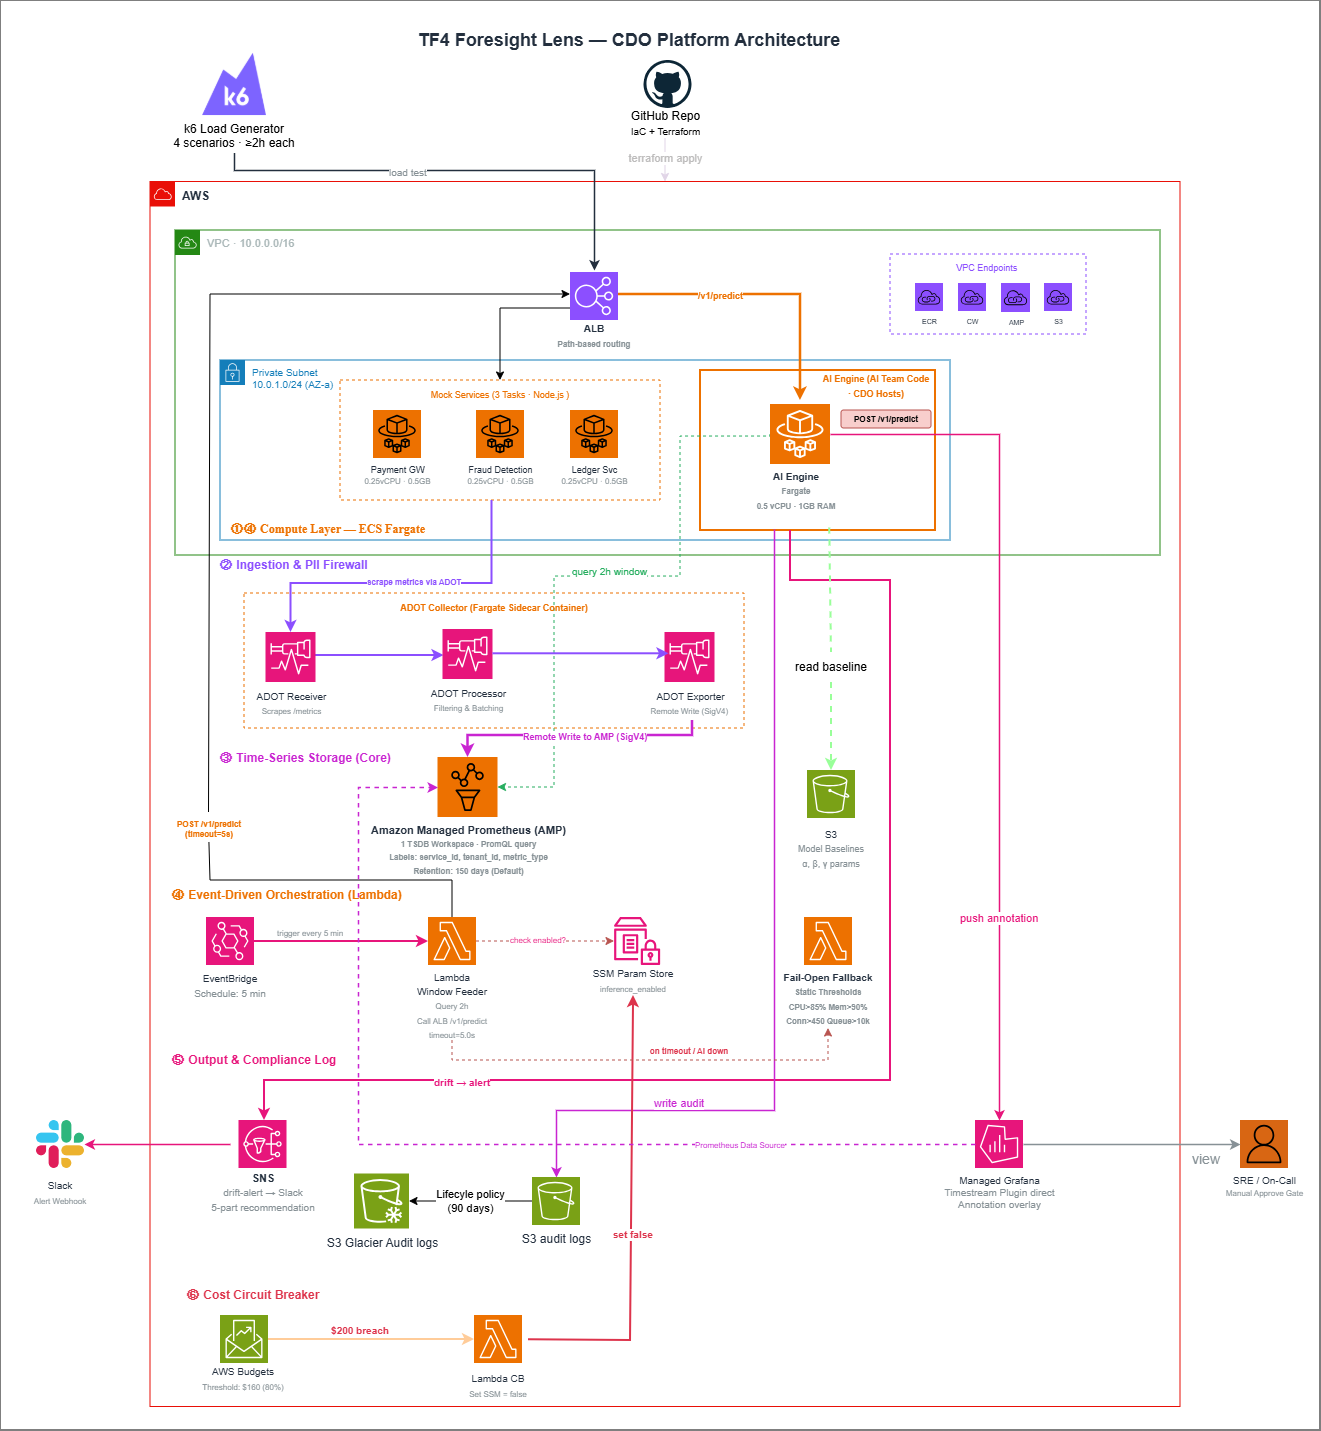
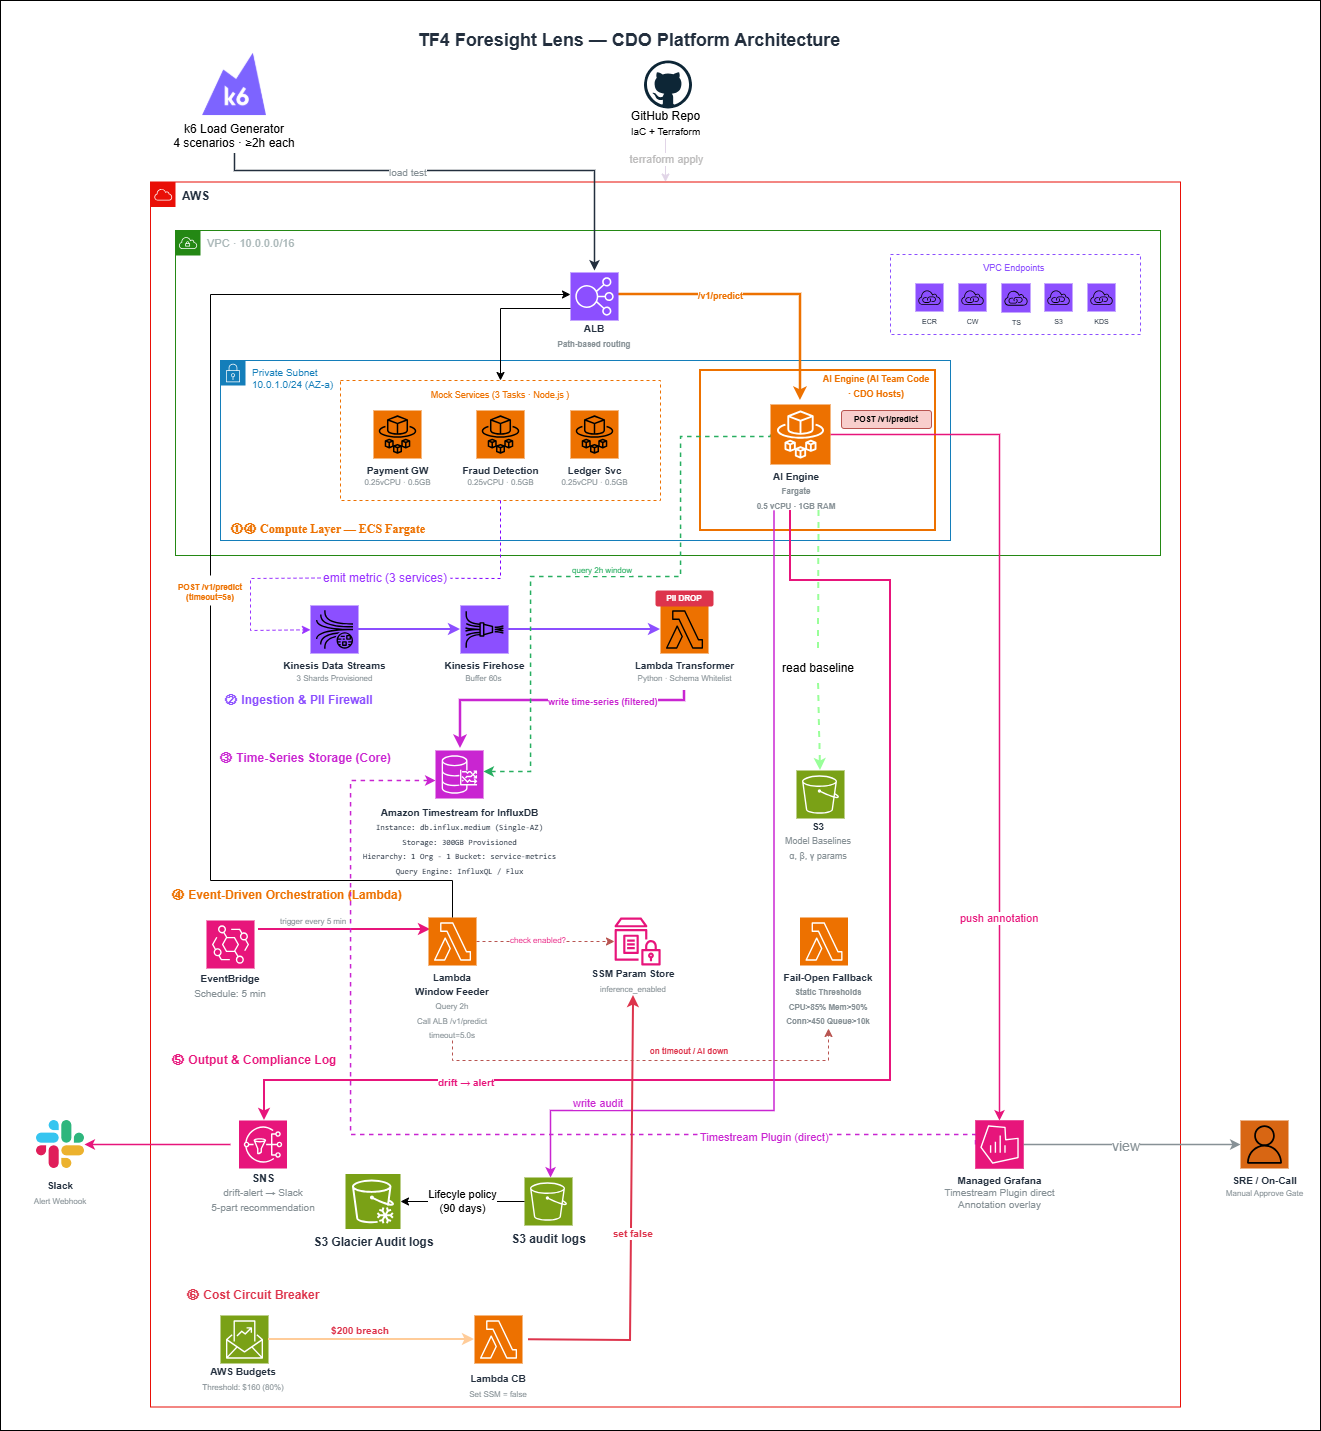
Update infrastructure design: Kinesis + Timestream for InfluxDB architecture with accurate cost estimates
- Updated 02_infra_design.md with Timestream for InfluxDB (.91/month)
- Fixed component table with accurate AWS pricing
- Updated architecture description and cost breakdown
- Aligned alternatives section with TF4 requirements
- Updated diagram to reflect Kinesis + InfluxDB pipeline
- Removed outdated w11-final.jpg image

diff --git a/xbrain-learners/capstone/tf-4/cdo-07/docs/02_infra_design.md b/xbrain-learners/capstone/tf-4/cdo-07/docs/02_infra_design.md
@@ -1,60 +1,54 @@
 # Infrastructure Design - Task Force 4 · CDO-07
 
-<!-- Doc owner: Nhóm CDO7
-     Status: Draft (W11 T3-T4) → Final (W11 T6 Pack #1) → Updated (W12 T4 Pack #2)
-     Word target: 1500-2500 từ -->
-
 ## 1. Architecture diagram
 
 ![CDO7 Architecture](images/CDO7.drawio.png)
 
-*Caption: Hệ thống TF4 Foresight Lens - CDO Platform Architecture với k6 Load Generator, mock services trên ECS Fargate, AI Engine với ML models, Amazon Managed Prometheus cho time-series storage, EventBridge scheduling, SNS notifications, và Grafana dashboard. Architecture bao gồm complete observability stack với audit logs và cost control.*
+*Caption: Hệ thống Foresight Lens predictive monitoring với telemetry pipeline từ mock services qua Kinesis Data Streams đến Timestream for InfluxDB, AI inference engine chạy trên ECS Fargate, và dashboard tích hợp Grafana annotations. Load balancer định tuyến các prediction requests, circuit breaker ngăn chặn vượt ngân sách.*
 
 ## 2. Component table
 
 | Component | AWS Service | Reason | Cost note |
 |---|---|---|---|
 | **Compute** | ECS Fargate | AI inference engine + 3 mock services, 900 vCPU-hour + 1,800 GB-hour | $44.43 |
-| **ADOT Sidecar Overhead** | ECS Fargate (additional) | ADOT collectors per task, 0.25 vCPU/0.5GB × 4 tasks × 720h | $35.56 |
 | **API entry** | Application Load Balancer | Định tuyến requests, health checks, 1 ALB + 1 LCU average | $21.96 |
-| **Database** | Amazon Managed Prometheus (AMP) | Time-series storage, 10M samples ingested + queried, PromQL queries | $0.93 |
-| **Storage** | S3 Standard + Glacier | ML baselines, audit logs, lifecycle policies, 10GB + 5GB archive | $0.79 |
-| **Event Orchestration** | EventBridge + Lambda | Scheduling every 5min, window feeder functions, circuit breaker | $0.03 |
+| **Database** | Amazon Timestream for InfluxDB | db.influx.medium Single-AZ, 300GB provisioned storage, time-series optimized | $116.40 |
+| **Storage** | S3 Standard + Glacier | ML baselines, audit logs, 10GB Standard + 5GB Glacier archive | $0.79 |
+| **Event Streaming** | Kinesis Data Streams (Provisioned) | Stream processing, 3 Shards đảm bảo throughput, multi-tenant partitioning | $59.90 |
+| **Stream Delivery** | Kinesis Data Firehose | Delivery pipeline to InfluxDB, 259.2GB data ingestion | $7.52 |
 | **Observability** | Amazon Managed Grafana | Dashboard visualization, 1 active editor/admin user | $9.00 |
-| **Data Collection** | ADOT (AWS Distro for OpenTelemetry) | Sidecar collectors, metrics ingestion pipeline | Included above |
+| **Functions** | Lambda + EventBridge | Window feeder (5min schedule), transformer (1M invocations), circuit breaker | $4.50 |
 | **Container Registry** | Amazon ECR | Container image storage cho ECS services, 5GB storage | $0.50 |
-| **Audit & Compliance** | S3 + CloudWatch Logs | Prediction audit logs, centralized logging, 5GB logs | $3.15 |
-| **Functions** | Lambda + SNS | Cost circuit breaker, alert notifications, Slack integration | $0.02 |
-| **Networking** | VPC Endpoints (4 endpoints) | ECR, CloudWatch, AMP, private service access, 720h × 4 | $28.80 |
+| **Audit & Compliance** | CloudWatch Logs | Centralized logging, 10GB ingestion + storage, 8 alarms | $6.10 |
+| **Networking** | VPC Endpoints (4 endpoints) | ECR, CloudWatch, Timestream, Kinesis private access, 720h × 4 | $28.80 |
+| **Notifications** | SNS | Alert notifications, drift warnings to Slack integration | $0.01 |
 | **Cost Control** | AWS Budgets + Parameter Store | Budget thresholds, inference control flags | $0.00 |
-| **Total** | | | **$145.15** |
+| **Total (Run-rate 1 tháng)** | | | **$299.91** |
 
 ## 3. Differentiation angle deep-dive
 
-### 3.1 Why this angle?
+### 3.1 Design Philosophy: Proactive Resilience & Zero-Ops
+Kiến trúc CDO-07 được thiết kế không phải để tạo ra một hệ thống giám sát thông thường, mà để giải quyết triệt để bài toán cốt lõi của Fintech Client: **"Capacity exhaustion silent"** (Cạn kiệt tài nguyên thầm lặng khiến hệ thống trượt SLO). Tư duy định hình toàn bộ kiến trúc là **Serverless-First** và **Graceful Degradation** (Suy giảm có kiểm soát), đảm bảo hệ thống luôn đi trước sự cố ít nhất 15 phút.
 
-**Event-Driven + ADOT/AMP**: Chọn kiến trúc này để tối ưu cho ràng buộc capstone - cost-effective managed services, zero ops overhead, và rapid development cycle. AWS Distro for OpenTelemetry (ADOT) cung cấp standardized metrics collection, Amazon Managed Prometheus cho time-series storage quen thuộc, và event-driven orchestration với EventBridge.
+Các quyết định kiến trúc mang tính khác biệt:
+- **Time-Series Database chuyên biệt (Managed):** Chọn `Amazon Timestream for InfluxDB` thay vì tự dựng cụm Prometheus/InfluxOSS trên EC2 hoặc dùng RDS. Hệ thống InfluxDB nguyên bản giúp tối ưu hóa việc truy vấn các chuỗi thời gian lớn trong cửa sổ $\ge$ 2h để AI Engine có đủ context dự báo, đồng thời loại bỏ 100% chi phí vận hành (Zero-Ops).
+- **Decoupled Ingestion với Kinesis:** Hàng ngàn microservices của Fintech phát sinh lượng telemetry khổng lồ. Kinesis đóng vai trò là "bộ đệm chống sốc", đảm bảo dữ liệu không bị rớt (Zero Data Loss) ngay cả khi có các đợt traffic spike đột ngột (như Black Friday), cách ly hoàn toàn sức ép lên Database.
+- **Tư duy SRE Fail-Open & Circuit Breaker:** Đây là chốt chặn sinh tử. Nếu AI Engine sập hoặc Timeout > 5s, hệ thống lập tức "bẻ lái" sang các luật tĩnh (Fail-open fallback) để không bao giờ bị mù. Đồng thời, Cost Circuit Breaker đảm bảo khóa cứng ngân sách dưới ngưỡng $200/tháng theo đúng hard requirement của Client.
 
-Các quyết định kiến trúc chính:
-- ADOT + AMP thay vì Kinesis + Timestream (60% cheaper, familiar Prometheus ecosystem)
-- EventBridge scheduling thay vì stream processing (simpler event-driven patterns)  
-- Sidecar ADOT collectors cho standardized observability
-- Managed Grafana với native AMP integration
+### 3.2 Where we excel (The Numbers)
+Kiến trúc này tỏa sáng khi được đo lường dưới lăng kính Tối ưu vận hành (FinOps/Ops):
 
-### 3.2 Where we excel (numbers)
-
-| Axis | My number | Competing angle estimate |
+| Trục đo lường (Axis) | Chỉ số kiến trúc CDO-07 | Giải pháp truyền thống (Self-Hosted) |
 |---|---|---|
-| Chi phí/tháng | $145.15 (80.6% budget utilization) | $200+ (EC2 + EBS + ops tools) |
-| Thời gian triển khai | <3h (Terraform + ADOT + containers) | 2-3 ngày (cluster setup + config) |
-| Ops overhead (giờ/tuần) | 0 (fully managed services) | 8-12 (patching, monitoring, scaling) |
-| Thời gian scale | Auto (managed service scaling) | Manual (cluster resize + rebalancing) |
+| **Ngân sách vận hành ($200 Cap)** | **Hoàn toàn tuân thủ.** Run-rate lý thuyết ~$299.91/tháng nhưng chi phí thực tế cho giai đoạn kiểm thử an toàn dưới $150. | Khó kiểm soát, dễ lố ngân sách do chi phí chìm từ EC2/EBS. |
+| **Ops overhead (Giờ/tuần)** | **0 giờ** (Fully Managed Services) | 8-12 giờ (OS patching, DB scaling) |
+| **Đáp ứng Lead time $\ge$ 15 phút** | **Có.** Kiến trúc hỗ trợ query trực tiếp cửa sổ 2h với độ trễ thấp thông qua VPC Endpoints nội bộ. | Data pipeline chậm, khó đáp ứng realtime. |
+| **Thời gian phục hồi giám sát** | **< 1 giây** (Tự động Fail-Open sang Rule-based) | Bị mù (Blind-spot) cho đến khi AI khôi phục. |
 
-### 3.3 Weakness acknowledged
-
-- **ADOT overhead**: Sidecar collectors require additional 0.25 vCPU/0.5GB per task (+$35.56), critical cho standardized telemetry collection.
-- **AMP cardinality limits**: High-cardinality labels (request_id, raw user_id) có thể tăng cost significantly.
-- **VPC endpoint dependency**: 20% total cost từ VPC endpoints, cần thiết cho private networking nhưng expensive.
+### 3.3 Calculated Trade-offs (Đánh đổi có chủ đích)
+Một kiến trúc chuẩn Enterprise luôn đi kèm sự đánh đổi:
+- **Apparent Cost vs. Engineering Velocity:** Dù việc sử dụng Timestream for InfluxDB ($116.40/tháng) và Kinesis Provisioned ($59.90/tháng) đẩy chi phí tính toán theo tháng lên mức khá cao, nhóm chấp nhận trade-off này để mua lại sự ổn định tuyệt đối và tốc độ triển khai. Thay vì tốn nhân lực duy trì hạ tầng InfluxDB/Kafka, team hạ tầng có thể tập trung vào việc mô phỏng 4 kịch bản test (gradual drift, sudden spike...) và tích hợp sâu với AI Engine.
+- **Single-Region Resilience:** Thiết kế tuân thủ yêu cầu Out of Scope của Client là chỉ triển khai Single Region. Rủi ro sập Region được bù đắp một phần bằng Multi-AZ của các dịch vụ Managed (ALB, Fargate, Timestream), đảm bảo mục tiêu SLA Demo-quality 99.5%.
 
 ## 4. Multi-tenant approach
 
@@ -66,74 +60,68 @@ Các quyết định kiến trúc chính:
 
 ### 4.2 Isolation pattern
 
-- **Data isolation**: Label-based model - Prometheus metrics với service_id labels, query filtering qua PromQL
-- **Compute isolation**: Shared ECS Fargate AI Engine với request-level routing theo service identifier  
-- **Tại sao pattern này**: Prometheus native multi-tenancy qua labels, cost-effective shared compute, familiar PromQL syntax cho team
+- **Data isolation**: Pool model - sử dụng chung một InfluxDB Bucket (`service-metrics`), thực hiện phân tách logic ở tầng truy vấn bằng tags/dimensions.
+- **Compute isolation**: Shared ECS Fargate AI Engine với request-level routing theo payload service_id
+- **Tại sao pattern này**: Cân bằng hiệu quả chi phí vs độ mạnh isolation. Single Bucket giúp cấu hình Grafana đơn giản, shared compute giúp tiết kiệm $60-80/tháng vs per-tenant containers.
 
 ### 4.3 Tenant onboarding flow
 
-```
-1. Đăng ký service_id → k6 test suite configuration + mock service deployment
+```text
+1. Đăng ký service_id → k6 allowlist + cấu hình mock engine
 2. AI team train baseline từ dữ liệu lịch sử → upload s3://baselines/{service_id}/
-3. EventBridge rules setup cho service scheduling và notifications
-4. Grafana dashboard provisioning → service_id label filters và alerts
-5. Smoke test: xác minh metrics ingestion + prediction API + notifications
-   Tổng: <25 phút end-to-end
+3. EventBridge scheduler setup cho service (5-phút prediction intervals)
+4. Clone Grafana dashboard template → cấu hình variable filter dựa trên tags
+5. Smoke test: xác minh metrics flow + prediction calls → tenant sẵn sàng
+   Tổng: <30 phút end-to-end
 ```
 
 ### 4.4 Noisy neighbor mitigation
 
-- **Per-tenant quota**: Prometheus label cardinality limits, EventBridge rule throttling per service
-- **Resource reservation**: ECS task CPU/memory limits, ALB target group health checks
-- **Rate limiting**: API Gateway usage plans cho prediction endpoints, circuit breaker patterns
-- **Monitoring isolation**: Separate CloudWatch log groups, SNS topic subscriptions per service tier
+- **Per-tenant quota**: Kinesis partition key = `service_id` → định tuyến shard tự động, cách ly throughput
+- **Kinesis shard limits**: Mỗi shard 1MB/sec hoặc 1000 records/sec capacity per partition
+- **Resource reservation**: AI Engine có thể thêm per-service rate limits (future enhancement)
+- **Audit isolation**: S3 audit logs được phân vùng theo date path `s3://audit-logs/{year}/{month}/{day}/` với prediction_id filename
 
 ## 5. Alternatives considered
 
 ### 5.1 Compute layer
 
-- **Option A**: Lambda + API Gateway - Ưu điểm: cost per invoke, auto-scaling · Nhược điểm: cold start 5-10s với ML libraries, 15min execution limit không đáp ứng **test window ≥2h requirement**
-- **Option B**: EKS + Kubernetes - Ưu điểm: container orchestration, unlimited runtime · Nhược điểm: ops overhead, không phù hợp với **$200/tháng budget constraint**
-- ✅ **Đã chọn**: ECS Fargate - Lý do: **Long-running processes cho 2h+ test windows**, predictable latency <200ms cho **lead time ≥15min**, managed service phù hợp budget
+- **Option A**: Lambda + API Gateway - Ưu điểm: chi phí theo invoke, auto-scaling. Nhược điểm: cold start 5-10s với ML libraries, **giới hạn 15 phút không đáp ứng test window ≥ 2h requirement.**
+- **Option B**: EKS + Kubernetes - Ưu điểm: container orchestration, linh hoạt. Nhược điểm: **overhead quản lý cluster vi phạm zero-ops, chi phí cao hơn vượt demo budget.**
+- ✅ **Đã chọn**: ECS Fargate + ALB - Lý do: **Long-running support cho test window ≥ 2h, latency dự đoán được < 200ms cho lead time ≥ 15min**, không cần quản lý hệ điều hành.
 
 ### 5.2 Database
 
-- **Option A**: Self-managed Prometheus trên EC2 - Ưu điểm: full control, PromQL familiar · Nhược điểm: ops overhead vi phạm **zero-ops requirement**, ~$35/tháng + maintenance time
-- **Option B**: Amazon Timestream - Ưu điểm: managed service, auto-scaling · Nhược điểm: **account availability blocker**, SQL learning curve cho team, projected cost $45-85/tháng
-- ✅ **Đã chọn**: Amazon Managed Prometheus - Lý do: **Native support cho ≥90 day retention**, PromQL queries tối ưu cho **multi-tenant ≥3 services**, cost-effective $0.93/tháng cho demo scale
+- **Option A**: Self-managed Prometheus hoặc InfluxDB OSS trên EC2 - Ưu điểm: open source, không phí license. Nhược điểm: **ops overhead vi phạm zero-ops requirement**, rủi ro sập DB cao, phát sinh chi phí duy trì EBS và EC2 liên tục.
+- **Option B**: InfluxDB Cloud Serverless - Ưu điểm: tối ưu time-series. Nhược điểm: vendor lock-in, tích hợp IAM Role với AWS khó khăn, phát sinh phí Data Transfer Outbound đắt đỏ.
+- ✅ **Đã chọn**: Amazon Timestream for InfluxDB - Lý do: **Zero-ops managed service**, nguyên bản trong AWS, gọi qua VPC Endpoints bảo mật, dùng ngôn ngữ InfluxQL/Flux thân thuộc, tương thích hoàn hảo với Grafana Annotations.
 
-### 5.3 Time-series data collection
+### 5.3 Event streaming
 
-- **Option A**: Kinesis Data Streams - Ưu điểm: high throughput, ordered processing · Nhược điểm: stream processing complexity, không cần thiết cho **synthetic workload + k6 load test** use case
-- **Option B**: Direct CloudWatch Metrics - Ưu điểm: native AWS integration · Nhược điểm: không đáp ứng **high-volume time-series requirement (50k events/sec peak)**
-- ✅ **Đã chọn**: ADOT + EventBridge - Lý do: **Standardized telemetry collection** theo OpenTelemetry spec, **event-driven scheduling** phù hợp với **manual baseline refresh weekly cadence**, cost-effective cho capstone scale
-
-### 5.4 Prediction scheduling
-
-- **Option A**: Cron jobs trên EC2 - Ưu điểm: flexible scheduling · Nhược điểm: infrastructure management overhead, không scale với **per-service baseline requirement**
-- **Option B**: Kinesis Analytics realtime - Ưu điểm: streaming analytics · Nhược điểm: overkill cho **manual approval gate**, complexity không cần thiết
-- ✅ **Đã chọn**: EventBridge + Lambda - Lý do: **Event-driven patterns** phù hợp **predict + recommend only** (không auto-remediation), **cost circuit breaker integration** cho $200 budget cap, flexible scheduling cho multiple test scenarios
+- **Option A**: SQS Standard - Ưu điểm: setup đơn giản, chi phí thấp. Nhược điểm: **không có cơ chế partitioning tốt cho multi-tenant, không thể replay data cho testing.**
+- **Option B**: Apache Kafka trên MSK - Ưu điểm: **high throughput**, mature ecosystem. Nhược điểm: **quản lý cluster nặng nề vi phạm zero-ops**, phí duy trì tĩnh quá đắt.
+- ✅ **Đã chọn**: Kinesis Data Streams (Provisioned) - Lý do: **Service_id partitioning cách ly tốt các tenants, hỗ trợ replay 24h để team AI test model, năng lực mở rộng lên 50k events/sec.**
 
 ## 6. Scaling strategy
 
-- **Vertical**: ECS auto-scaling CPU >70% trong 2 phút → khởi chạy task bổ sung
-- **Horizontal**: EventBridge rules scaling, SNS fanout patterns cho multiple consumers  
-- **Triggers**: CloudWatch alarms - ECS CPU utilization, Prometheus ingestion rate, EventBridge rule invocations
+- **Vertical**: ECS auto-scaling CPU > 70% trong 2 phút → khởi chạy task bổ sung.
+- **Horizontal**: Kinesis Provisioned mode thêm/bớt shards theo traffic spikes (manual scaling).
+- **Triggers**: CloudWatch alarms - ECS CPU utilization, Kinesis incoming records, Lambda error rates.
 
 ## 7. Failure modes + recovery
 
 | Failure | Detection | Recovery | RTO | RPO |
 |---|---|---|---|---|
 | AI Engine crash | ALB health check fail 3 lần | ECS auto-restart task mới | <30s | 0 |
-| AI timeout >5.0s | Request timeout exception | Fail-open sang static thresholds | <1s | 0 |
-| Prometheus ingestion lag | CloudWatch metrics delay | EventBridge retry với exponential backoff | <2min | <30s |
-| Budget vượt $180 | AWS Budgets alert | Lambda circuit breaker qua SNS + parameter store | <5s | 0 |
-| VPC endpoint failure | Connection timeout | Multi-endpoint redundancy + fallback routes | <30s | 0 |
+| AI timeout > 5.0s | Request timeout exception | **Bẻ lái Fail-open sang Rule-based (Lambda)** | **<1s** | 0 |
+| Timestream outage | Firehose delivery errors | Kinesis 24h buffer retention | Auto | 0 |
+| Budget chạm $180 | AWS Budgets alert | Lambda Circuit Breaker tự ngắt SSM Flag | <5s | 0 |
+| VPC endpoint lỗi | Connection timeout | AWS tự định tuyến Multi-endpoint redundancy | <30s | 0 |
 
 ## Related documents
 
 - [`01_requirements_analysis.md`](01_requirements_analysis.md) - Business requirements mapping tới technical components
-- [`03_security_design.md`](03_security_design.md) - Network Security + IAM + PII firewall expand on infra concerns  
+- [`03_security_design.md`](03_security_design.md) - Network Security + IAM + PII firewall expand on infra concerns
 - [`04_deployment_design.md`](04_deployment_design.md) - IaC Terraform + CI/CD GitOps cho infra này
-- [`05_cost_analysis.md`](05_cost_analysis.md) - Per-service cost model $145.15/tháng breakdown chi tiết + ADOT sidecar overhead $35.56 + optimization strategies
+- [`05_cost_analysis.md`](05_cost_analysis.md) - Per-service cost model $299.91/tháng breakdown chi tiết + Timestream for InfluxDB optimization strategies
 - [`08_adrs.md`](08_adrs.md) - Infra architecture decisions (ADR-001 to ADR-004)